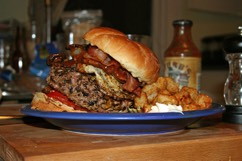
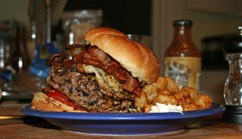
resize default image for consistency, add other image to seed file

diff --git a/db/seeds.rb b/db/seeds.rb
@@ -53,6 +53,8 @@ appetizers = Item.create([
     description: "Lovely green soup with a creamy star on top",
     price: 5.50 }
     ])
+appetizers[0].image = File.open("#{Rails.root}/app/assets/images/deviled-quail-eggs.png")
+appetizers[0].save
 appetizers[3].image = File.open("#{Rails.root}/app/assets/images/tomato-veg-cheese-sandwich.png")
 appetizers[3].save
 
